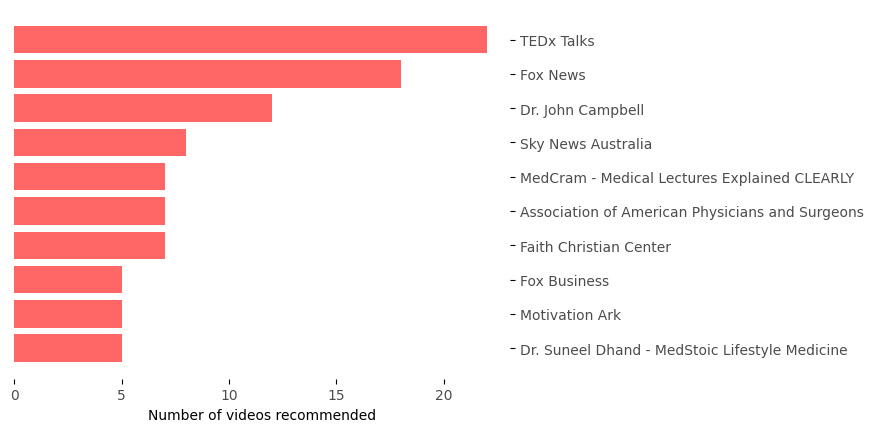
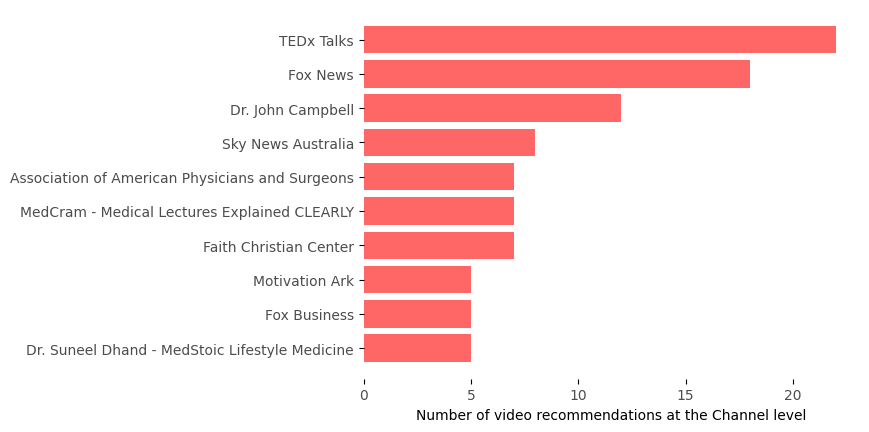
Update create_figure: youtube

diff --git a/code/create_figures.py b/code/create_figures.py
@@ -365,13 +365,13 @@ def create_plot_top_channel_youtube(path_to_data):
     plt.xticks(alpha=0.7)
     # Create names on the x-axis
     plt.yticks(y_pos, channel_fre['index'], alpha=0.7)
-    ax.set_xlabel('Number of videos recommended')
+    ax.set_xlabel('Number of video recommendations at the Channel level')
     ax.spines['right'].set_visible(False)
     ax.spines['left'].set_visible(False)
     ax.spines['top'].set_visible(False)
     ax.spines['bottom'].set_visible(False)
     ax.yaxis.set_label_position("right")
-    ax.yaxis.tick_right()
+    #ax.yaxis.tick_right()
     plt.gca().invert_yaxis()
     fig_name = "channel_youtube_top_10"
     figure_path = os.path.join('.', 'figure', fig_name)
@@ -544,7 +544,7 @@ def create_twitter_figures():
 
 
 if __name__=="__main__":
-
+    '''
     create_facebook_trump_figure()
     create_buzzsumo_thebl_figure()
     create_facebook_crowdtangle_infowars_figure()
@@ -553,3 +553,5 @@ if __name__=="__main__":
     create_youtube_graph()
 
     create_twitter_figures()
+    '''
+    create_plot_top_channel_youtube('/home/dana/Desktop/WebclimProject/truth-and-trust-online-2021/data/02L_LUpSqeA_experiment_2.csv')
